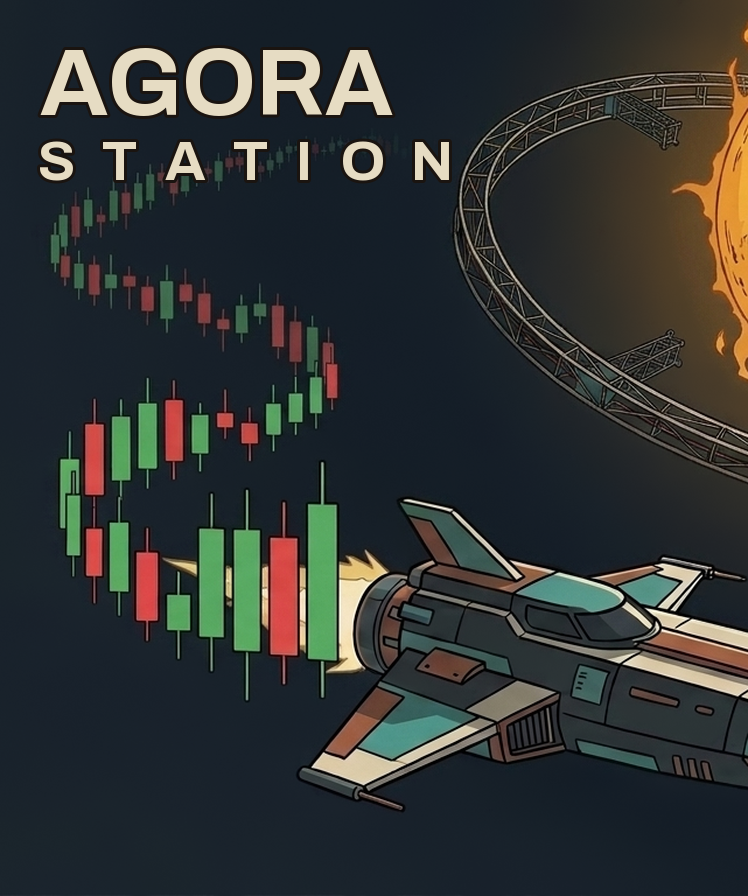
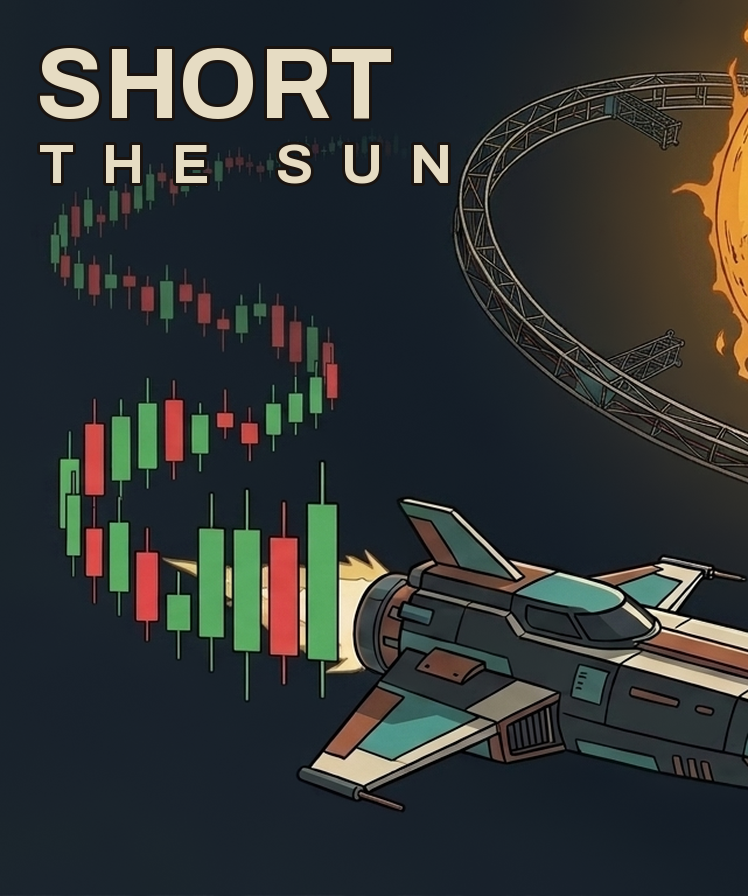
feat(store): Short the Sun title on Steam capsules and store name (#29, Steam store assets)

Changed region(s): [[0.0307, 0.0312, 0.5227, 0.2188], [0.3075, 0.1562, 0.4305, 0.2188], [0.5535, 0.1562, 0.615, 0.2188]]

diff --git a/tools/art/make_capsules.py b/tools/art/make_capsules.py
@@ -24,8 +24,8 @@ BONE = (0xE6, 0xDC, 0xC3)
 INK = (0x1A, 0x14, 0x10)
 SHEET_BG = (0x0F, 0x0D, 0x0B)
 WEIGHT = 700
-WORD = "AGORA"
-WORD2 = "STATION"  # working title "Agora Station" (Ryan, 2026-10-12); second line, tracked to AGORA's width
+WORD = "SHORT"
+WORD2 = "THE SUN"  # title "Short the Sun" (Ryan, 2026-10-12); second line, tracked to the first line's width
 
 # name -> (width, height, layout, wordmark height fraction)
 # layout: "left" (left third, vertically centered) | "top" (centered, top third)
@@ -164,7 +164,7 @@ def busy_mask(img):
 
 
 def title_block(wm_target, max_w, stroke_w):
-    """AGORA over a tracked-out STATION, both lines the same width."""
+    """SHORT over a tracked-out THE SUN, both lines the same width."""
     wordmark = fit_text(WORD, wm_target, max_w, stroke_w, BONE, INK)
     if not WORD2:
         return wordmark

diff --git a/tests/test_steam_store_assets.py b/tests/test_steam_store_assets.py
@@ -18,7 +18,7 @@ class TestSteamStoreAssets(unittest.TestCase):
         self.steam_cfg = json.loads(STEAM_CONFIG_PATH.read_text(encoding="utf-8"))
 
     def test_basic_metadata_and_partner_alignment(self):
-        self.assertEqual(self.data["app_name"], "Agora Station")
+        self.assertEqual(self.data["app_name"], "Short the Sun")
         self.assertEqual(self.data["app_id_target"], 0)
         self.assertEqual(self.data["publisher"], "Placeholder Studios")
         self.assertEqual(self.steam_cfg.get("target_app_id"), 0)
